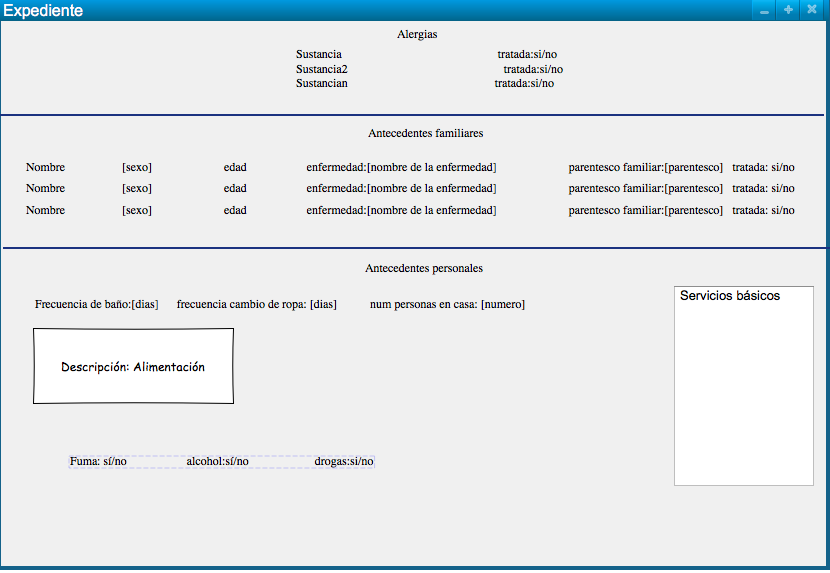
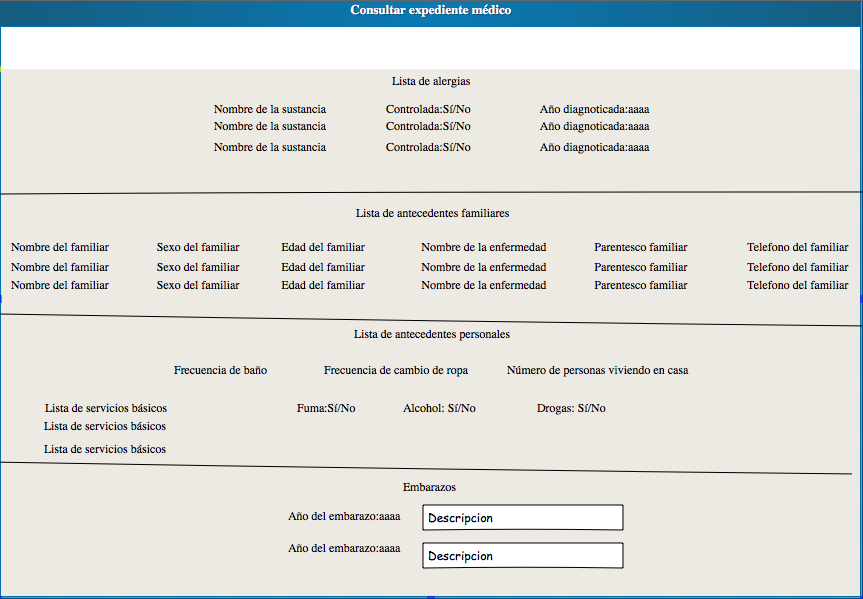
Cambiando casos de uso

diff --git a/documento_analisis/ModeloComportamiento/ConsultarExpediente/ConsultarExpediente.tex b/documento_analisis/ModeloComportamiento/ConsultarExpediente/ConsultarExpediente.tex
@@ -34,42 +34,43 @@
         \begin{itemize}
             \item Lista de datos personales
         \begin{itemize}
-            \item Nombre: Constituido por nombre(s) y apellidos.Cádena de caracteres
-            \item Sexo  Caracter 'H' o 'M' (hombre,mujer)
-            \item Fecha de nacimiento: Formato de fecha DD/MM/AAAA
+            \item *Nombre: Constituido por nombre(s) y apellidos.Cádena de caracteres
+            \item *Sexo  Caracter 'H' o 'M' (hombre,mujer)
+            \item *Fecha de nacimiento: Formato de fecha DD/MM/AAAA
             \item Dirección
             \begin{itemize}
-                \item Calle: Cádena de caracteres.
+                \item *Calle: Cádena de caracteres.
                 \item Número: Cádena de caracteres.
-                \item Colonia: Cádena de caracteres.
-                \item Estado: Cádena de caracteres.
-                \item País : Cádena de caracteres.
-                \item Teléfono particular: Cádena de 8 a 10 caracteres.
-                \item Teléfono de emergencia: Cádena de 8 a 10 caracteres.
+                \item *Colonia: Cádena de caracteres.
+                \item *Estado: Cádena de caracteres.
+                \item *País : Cádena de caracteres.
+                \item *Teléfono particular: Cadena de 8 a 10 caracteres.
+                \item *Teléfono de emergencia: Cadena de 8 a 10 caracteres.
             \end{itemize}    
         
         \end{itemize}
         
        \item Lista de enfermedades tenidas
         \begin{itemize}
-            \item Código:código segun la cie10
+            \item Código: código segun la cie10
             \item Nombre de enfermedad: Cadena de caracteres. 
-            \item fecha diagnosticada: Formato DD/MM/AAAA
+            \item Fecha diagnosticada: fecha con formato  DD/MM/AAAA.
+            \item Tratada:  booleano 0 para 'No', 1 para 'Sí'.
             \item Observaciones de la enfermedad: Cadena extensa de caracteres.
-            \item Tratada: booleano 0 para 'No', 1 para 'Sí'.
-
         \end{itemize}
-        
         \item Lista de cirugias tenidas
         \begin{itemize}
             \item Nombre de cirugia: Cadena de caracteres
-            \item Año de la cirugia : Año 
+            \item Año de la cirugia : Año. Número entero de 4 dígitos.
+            \item Lugar de cirugía: Lugar donde fue realizada la cirugia. Cadena de caracteres.
+            \item Estado: Estado de la republica. Cadena de caracteres.
         \end{itemize}
         
         \item Lista de alergias
         \begin{itemize}
             \item Nombre de sustancia a la que es alergico:Cadena de caracteres.
-            \item Tratada: booleano 0 para 'No', 1 para 'Sí'.
+            \item Controlada: Booleano 0 para 'No', 1 para 'Sí'.
+            \item Año diagnosticada: Año. Número entero de 4 dígitos. 
         \end{itemize}
         
   \item Lista de antecedentes familiares
@@ -80,7 +81,7 @@
             \item Edad de familiar: Número entero positivo.
             \item Nombre de enfermedad data a un familiar:Cadena de caracteres.
             \item Parentesco del familiar:Cadena de caracteres.
-            \item Tratada: booleano 0 para 'No', 1 para 'Sí'.
+            \item Telefono: Cadena de 8 a 10 caracteres.
 
         \end{itemize}
        \end{itemize}
@@ -95,9 +96,9 @@
             \item Personas viviendo en la misma casa: Número entero positivo.
             \item Servicios básicos: Lista de cadenas. 
             \item Alimentación: Descripción de tipo de alimentación. Cádena extensa de caracteres
-            \item Fuma: Booleano
-            \item Alcohol: Booleano
-            \item Drogas: Booleano
+            \item Fuma: Booleano 0 para 'No', 1 para 'Sí'.
+            \item Alcohol: Booleano 0 para 'No', 1 para 'Sí'.
+            \item Drogas: Booleano 0 para 'No', 1 para 'Sí'.
             
         \end{itemize}
         
@@ -105,7 +106,7 @@
         
         \begin{itemize}
             \item Descripción de embarazo:Cadena de caracteres.
-            \item Año del embarazo: Año
+            \item Año del embarazo: Año. Número de 4 dígitos.
         \end{itemize}
         
         \item Lista de métodos anticonceptivos usados
@@ -119,13 +120,14 @@
         
         \begin{itemize}
             \item Mastografía:Cadena de caracteres.
+            \item Año de realización de  mastografía: Año. Número de 4 dígitos.
             \item Notas sobre la mastografía:Cadena extensa de caracteres.
         \end{itemize}
             
         \item Lista de papanicolaus
         
         \begin{itemize}
-            \item Año de papanicolaou:Año
+            \item Año de papanicolaou:Año. Número de 4 dígitos.
             \item Notas sobre el papanicolau:Cadena extensa de caracteres.
         \end{itemize}
         
@@ -136,21 +138,23 @@
             \item Lista de consultas
         
         \begin{itemize}
-            \item Fecha de consulta:DD/MM/AAAA
+            \item Fecha de consulta: Fecha, formato:DD/MM/AAAA
             \item Sintomas:Cadena extensa de caracteres.
-            \item Peso: Médido en KG.
-            \item Talla: Médida en talla de México
-            \item Temperatura: Médida en grados centigrados
+            \item Peso: Número flotante médido en KG.
+            \item Talla: Número entero médido en talla de México
+            \item Temperatura: Número flotante médido en grados centigrados
             \item Frecuencia cardiaca:Médido en número entero por minúto.
-            \item Presión mínima:"mm de Hg" (milímetros de mercurio)
-            \item Presión máxima:"mm de Hg" (milímetros de mercurio) 
+            \item Presión mínima: número flotante medido en"mm de Hg" (milímetros de mercurio)
+            \item Presión máxima número flotante: medido en "mm de Hg" (milímetros de mercurio) 
             \item Diagnostico:Cadena extensa de caracteres.
             \item Observaciones del diagnostico:Cadena extensa de caracteres.
             \item Recomendación:Cadena extensa de caracteres.
             \item Duración de tratamiento: Medido en días.
             \item Nombre comercial del medicamento recetado:Cadena de caracteres.
-            \item Frecuencia de uso: número de horas entre uso 
-            \item Duración de uso: Días.
+            \item Cantidad: Unidades que se debe tomar. Número entero.
+            \item Frecuencia de uso: cadena de carácteres compuesta por un número entero positivo que representa el tiempo que debe transcurrir entre cada dosis de medicamento una unidad de medida.
+            \item Duración: cadena de carácteres compuesta por un número entero positivo que representa el tiempo que debe transcurrir desde que el paciente debe empezar a tomar el médicamento hasta que lo deje de consumir y una unidad de medida.
+            
         \end{itemize}
         \end{itemize}
     }
@@ -169,7 +173,13 @@
     }
     \UCitem{Postcondiciones}{Ninguna}
     \UCitem{Observaciones}{
-        Si el paciente no cuenta con un expediente el médico debe crearle uno.
+    	\begin{itemize}
+    	\item Si el paciente no cuenta con un expediente el médico debe crearle uno.
+    	\item Los elementos marcados con un '*' son obligatorios de mostrar.
+    	\end{itemize}
+
+       
+        
     }
     \UCitem{Errores}{
     ERR1:
@@ -199,6 +209,6 @@
 
 \begin{UCtrayectoria}{Paciente}
         \UCpaso[\UCactor] Selecciona ``Mi expediente'' dando click en dicho apartado.[TA2][RN8]
-        \UCpaso Muestra todos los datos de salida especificados en el apartado de salias.[ERR1]
+        \UCpaso Muestra todos los datos de salida especificados en el apartado de salidas.[ERR1]
 \end{UCtrayectoria}
 %-------------------------------------- TERMINA descripción del caso de uso.

diff --git a/documento_analisis/ModeloComportamiento/RegistrarPaciente/RegistrarPaciente.tex b/documento_analisis/ModeloComportamiento/RegistrarPaciente/RegistrarPaciente.tex
@@ -16,27 +16,27 @@
     \UCitem{Propósito}{El paciente podrá agendar citas y consultar su expediente.}
     \UCitem{Entradas}{
         \begin{itemize}
-            \item Email del paciente: cadena de texto compuesta de 4 partes:  
+            \item *Email del paciente: cadena de texto compuesta de 4 partes:  
             \begin{itemize}
                 \item cadena de texto.
                 \item carácter ‘@’
                 \item cadena que identifica al servidor que brinda el servicio de correo electrónico
                 \item carácter ‘.’ y dominio
             \end{itemize}
-            \item Nombre completo del paciente:  3 cadenas de caracteres (Nombre(s), apellido paterno, apellido materno).
-			\item Fecha de nacimiento del paciente: Fecha DD/MM/AAAA
-            \item Sexo del paciente: 1 carácter . ‘H’ para hombre, ‘M’ para mujer.
+            \item* Nombre completo del paciente:  3 cadenas de caracteres (Nombre(s), apellido paterno, apellido materno).
+			\item *Fecha de nacimiento del paciente: Fecha DD/MM/AAAA
+            \item *Sexo del paciente: 1 carácter . ‘H’ para hombre, ‘M’ para mujer.
             \item Dirección
             \begin{itemize}
-                \item Calle: Cádena de caracteres.
+                \item *Calle: Cádena de caracteres.
                 \item Número: Cádena de caracteres.
-                \item Colonia: Cádena de caracteres.
-                \item Estado: Cádena de caracteres.
-                \item País : Cádena de caracteres.
+                \item *Colonia: Cádena de caracteres.
+                \item *Estado: Cádena de caracteres.
+                \item *País : Cádena de caracteres.
                 \item Teléfono particular: Cádena de 8 a 10 caracteres.
                 \item Teléfono de emergencia: Cádena de 8 a 10 caracteres.
             \end{itemize}    
-            \item Contraseña:  Cadena de longitud mínima de 8 caracteres
+            \item *Contraseña:  Cadena de longitud mínima de 8 caracteres
         \end{itemize} 
     }
     \UCitem{Origen}{
@@ -55,7 +55,11 @@
 		\end{itemize}
     }
     \UCitem{Observaciones}{
-    	La Pantalla para registrar paciente nuevo de la enfermera y del paciente es la misma.
+    \begin{itemize}
+    \item La Pantalla para registrar paciente nuevo de la enfermera y del paciente es la misma.
+    \item Los elementos marcados con '*' son obligatorios de llenar.
+    \end{itemize}
+    	
     }
     \UCitem{Errores}{HOla
 	}

diff --git a/documento_analisis/main.tex b/documento_analisis/main.tex
@@ -63,6 +63,7 @@
 \cfinput{ModeloComportamiento/ConsultarCitas/ConsultarCitas}
 \cfinput{ModeloComportamiento/ConsultarPacientes/ConsultarPacientes}
 \cfinput{ModeloComportamiento/CrearExpediente/CrearExpediente}
+\cfinput{ModeloComportamiento/ConsultarExpediente/ConsultarExpediente}
 \cfinput{ModeloComportamiento/CrearTratamiento/CrearTratamiento}
 \cfinput{ModeloComportamiento/ModificarHorarioMedico/ModificarHorarioMedico}
 \cfinput{ModeloComportamiento/RealizarPagoCita/RealizarPagoCita}
